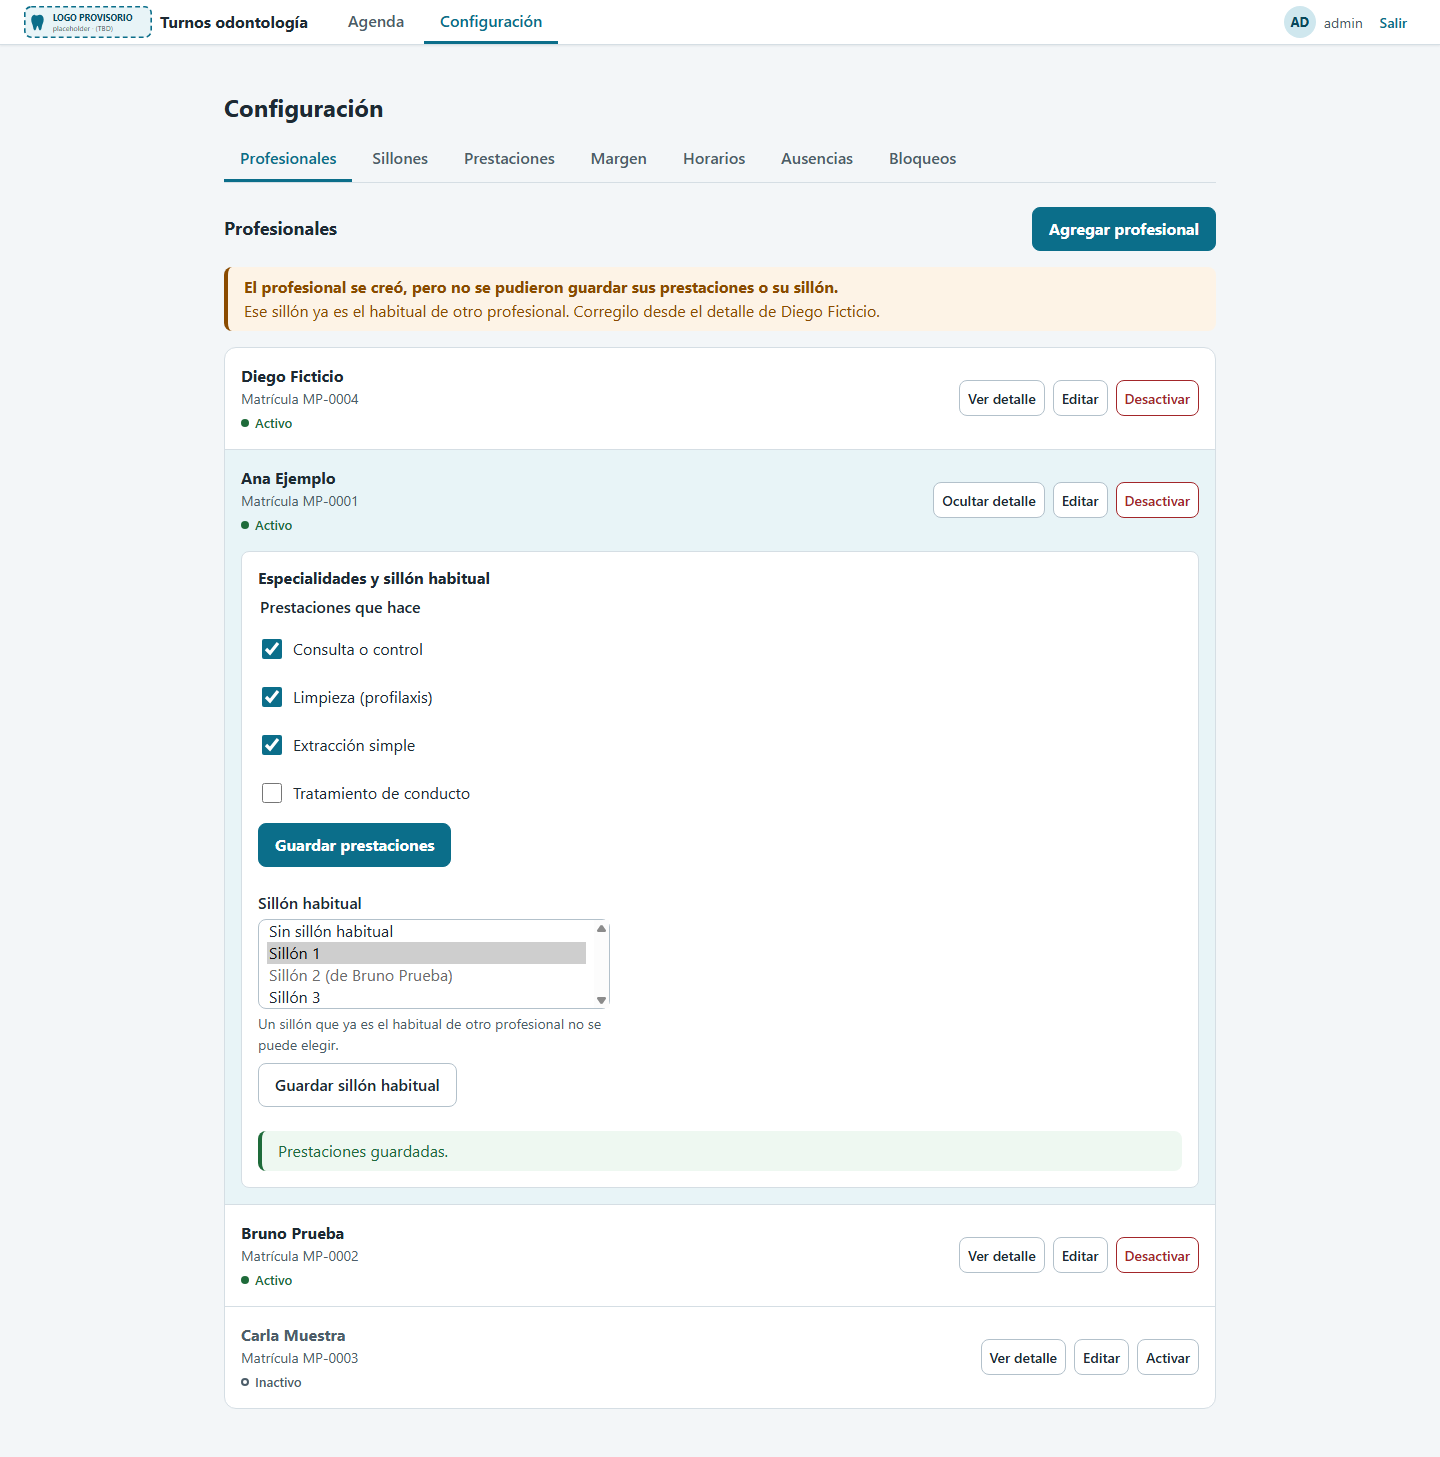
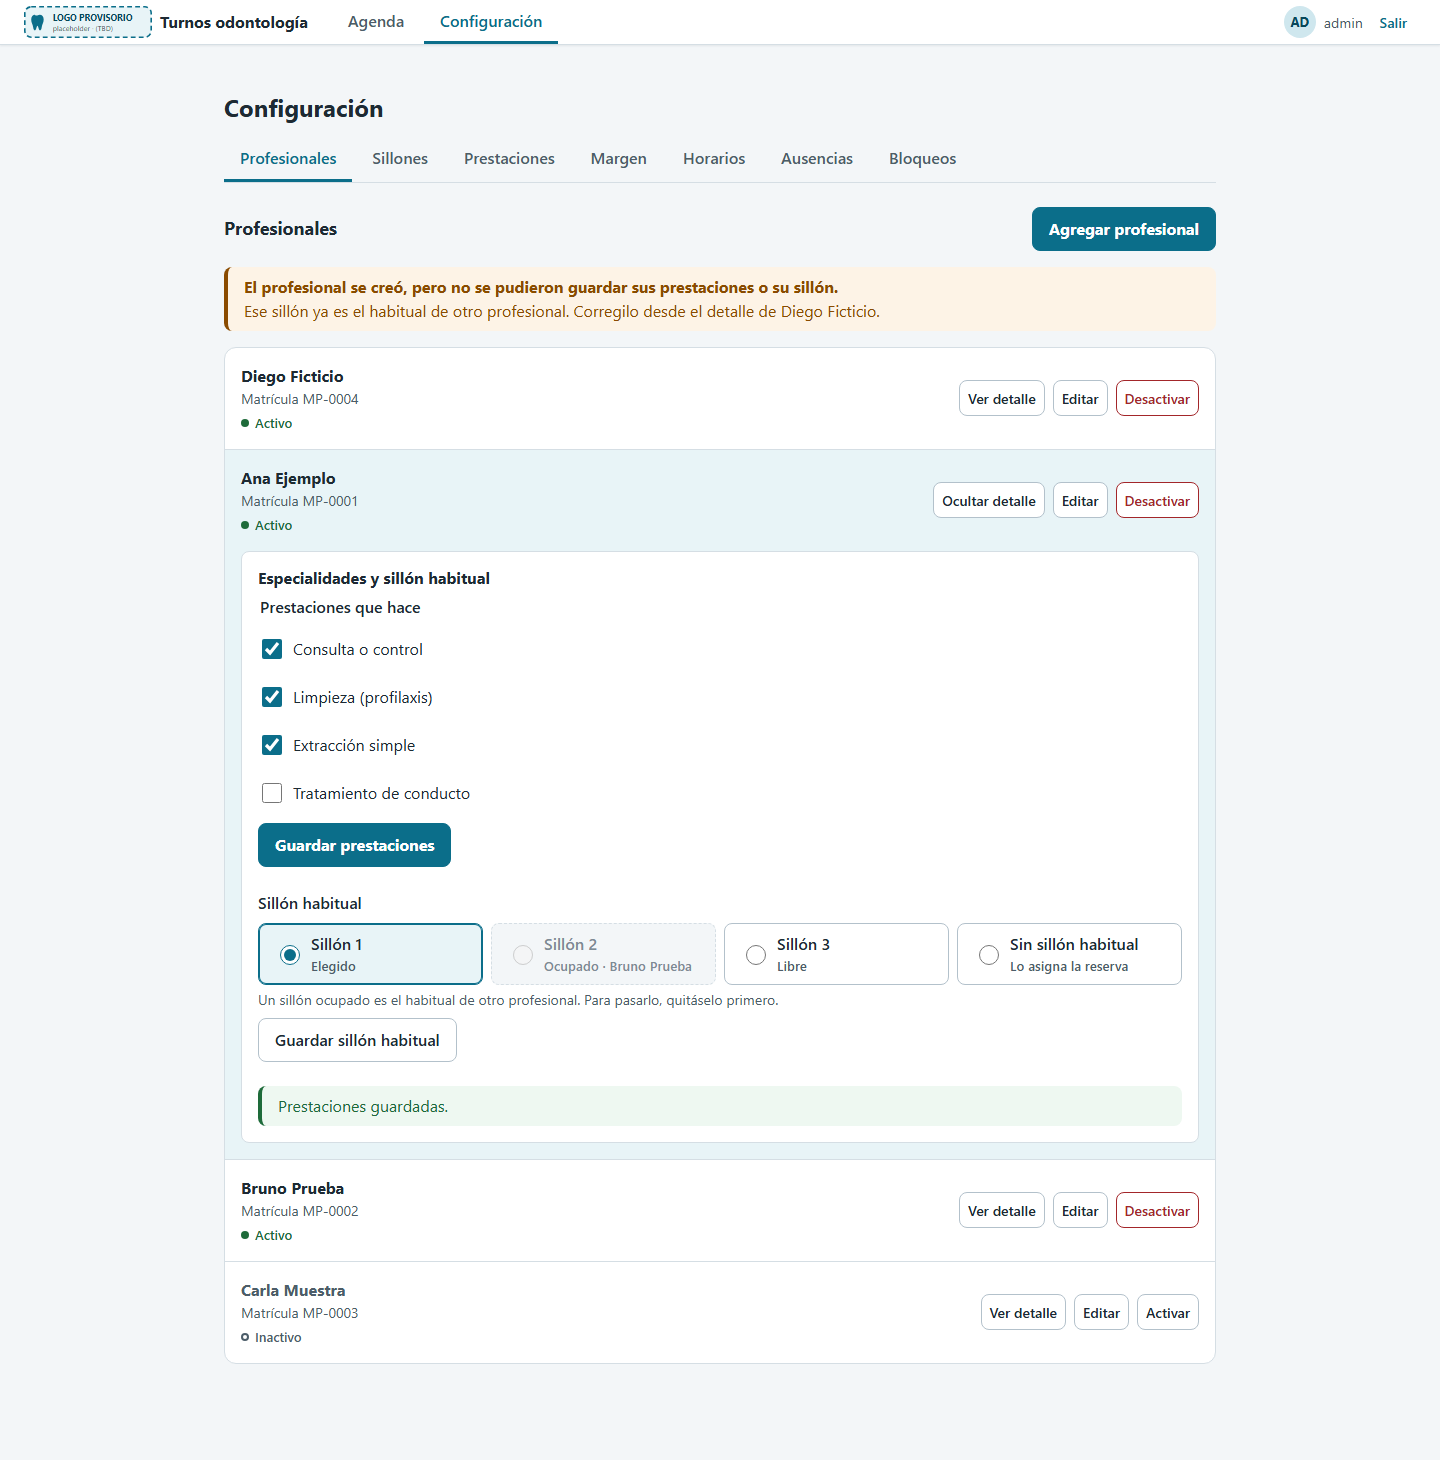
C-34: sillón habitual con tarjetas de opción en el detalle (mockups 2b)

diff --git a/openspec/changes/frontend-configuracion-consultorio/mockups/profesionales.html b/openspec/changes/frontend-configuracion-consultorio/mockups/profesionales.html
@@ -60,11 +60,16 @@
               <button class="btn btn-principal" type="button">Guardar prestaciones</button>
             </div>
             <div class="grupo-config">
-              <div class="campo">
-                <label for="sh">Sillón habitual</label>
-                <select class="control" id="sh" size="4"><option>Sin sillón habitual</option><option selected>Sillón 1</option><option disabled>Sillón 2 (de Bruno Prueba)</option><option>Sillón 3</option></select>
-                <span class="ayuda">Un sillón que ya es el habitual de otro profesional no se puede elegir.</span>
-              </div>
+              <fieldset class="campo">
+                <legend>Sillón habitual</legend>
+                <div class="opciones opciones-sillon">
+                  <label class="opcion"><input type="radio" name="sh" checked /><span>Sillón 1<small>Elegido</small></span></label>
+                  <label class="opcion opcion-ocupada"><input type="radio" name="sh" disabled /><span>Sillón 2<small>Ocupado · Bruno Prueba</small></span></label>
+                  <label class="opcion"><input type="radio" name="sh" /><span>Sillón 3<small>Libre</small></span></label>
+                  <label class="opcion"><input type="radio" name="sh" /><span>Sin sillón habitual<small>Lo asigna la reserva</small></span></label>
+                </div>
+                <span class="ayuda">Un sillón ocupado es el habitual de otro profesional. Para pasarlo, quitáselo primero.</span>
+              </fieldset>
               <button class="btn" type="button">Guardar sillón habitual</button>
             </div>
             <div class="aviso aviso-ok" role="status" style="margin-top:var(--ds-espacio-3)"><div>Prestaciones guardadas.</div></div>

diff --git a/openspec/changes/frontend-configuracion-consultorio/mockups/mockups.css b/openspec/changes/frontend-configuracion-consultorio/mockups/mockups.css
@@ -240,3 +240,13 @@ p { margin: 0; }
 }
 .velo { overflow-y: auto; }
 .velo .dialogo { margin: auto; }
+
+/* --- Sillón habitual con tarjetas de opción (revisión 2b) --- */
+.opciones-sillon { grid-template-columns: repeat(auto-fill, minmax(12rem, 1fr)); width: 100%; }
+fieldset.campo { border: 0; padding: 0; margin: 0; min-width: 0; width: 100%; }
+fieldset.campo > legend { padding: 0; margin-bottom: var(--ds-espacio-1); font-weight: var(--ds-peso-medio); }
+.opcion-ocupada { color: var(--ds-texto-deshabilitado); background: var(--ds-superficie); border-color: var(--ds-borde); border-style: dashed; cursor: not-allowed; }
+.opcion-ocupada small { color: var(--ds-texto-deshabilitado); }
+.grupo-config:has(.opciones-sillon) { justify-items: stretch; }
+.grupo-config:has(.opciones-sillon) > .btn { justify-self: start; }
+.grupo-config fieldset.campo:has(.opciones-sillon) { max-width: none; }

diff --git a/openspec/changes/frontend-configuracion-consultorio/specs/frontend-configuracion-consultorio/spec.md b/openspec/changes/frontend-configuracion-consultorio/specs/frontend-configuracion-consultorio/spec.md
@@ -168,13 +168,13 @@ Para `ADMIN`, el detalle de un profesional SHALL permitir:
 - **THEN** se envía `PUT /api/v1/profesionales/1/sillon-habitual` con `{"sillonId":null}`
 
 ### Requirement: Sillones habituales ocupados
-En el detalle y en el alta de un profesional, un sillón que ya es el habitual de otro profesional (RN-RO-09) SHALL aparecer deshabilitado y con el nombre de quien lo tiene, por ejemplo "Sillón 2 (de Bruno Prueba)". Si igual la API responde `SILLON_HABITUAL_OCUPADO`, se muestra "Ese sillón ya es el habitual de otro profesional." y el sillón anterior sigue elegido.
+Un sillón que ya es el habitual de otro profesional (RN-RO-09) SHALL aparecer deshabilitado y con el nombre de quien lo tiene. En el detalle, los sillones se eligen con tarjetas de opción (radio), y la ocupada dice "Ocupado · Bruno Prueba". En el selector del alta, la opción dice "Sillón 2 (de Bruno Prueba)". Si igual la API responde `SILLON_HABITUAL_OCUPADO`, se muestra "Ese sillón ya es el habitual de otro profesional." y el sillón anterior sigue elegido.
 
 #### Scenario: El sillón de otro profesional no se puede elegir
 - **GIVEN** una sesión de `admin` en el detalle de la Dra. Ana Ejemplo
-- **WHEN** abre el selector de sillón habitual
-- **THEN** "Sillón 2 (de Bruno Prueba)" está deshabilitado
-- **AND** "Sillón 1" está habilitado y elegido
+- **WHEN** mira las opciones de sillón habitual
+- **THEN** la opción "Sillón 2" está deshabilitada y dice "Ocupado · Bruno Prueba"
+- **AND** "Sillón 1" está elegido y "Sin sillón habitual" es una opción más
 
 #### Scenario: El sillón lo tomó otro profesional mientras tanto
 - **GIVEN** una sesión de `admin` en el detalle de la Dra. Ana Ejemplo

diff --git a/openspec/changes/frontend-configuracion-consultorio/design.md b/openspec/changes/frontend-configuracion-consultorio/design.md
@@ -156,6 +156,7 @@ Textos fijos nuevos: "Elegí al menos un día.", "Avisale a la recepción para r
   - `.franjas` (grilla de días).
 - Los botones de acción respetan `--ds-alto-control` (44 px).
 - **Espaciado (segunda prueba):** en el detalle del profesional, cada bloque (prestaciones y sillón habitual) es un `.grupo-config` con `gap: var(--ds-espacio-1)` (8 px) entre el campo y su botón, y `--ds-espacio-3` (24 px) entre bloques. Antes, el botón "Guardar sillón habitual" quedaba pegado al selector.
+- **Sillón habitual en el detalle (revisión 2b, pedido de Emanuel):** en vez de un `<select>`, tarjetas `.opcion` con radio (las de la reserva en `components.html`), en una grilla `.opciones-sillon` de `minmax(12rem, 1fr)`. Cada tarjeta muestra el sillón y un estado: "Elegido", "Libre" u "Ocupado · <profesional>" (deshabilitada y punteada). "Sin sillón habitual" es la última tarjeta. El alta conserva el `<select>`.
 - Se agregan `.dias-semana` (casillas de días en fila, que se apilan en 390 px) y `.hora-5` (dos selectores, hora y minutos, en línea).
 
 ### D12. "Todos los profesionales": un pedido por profesional
